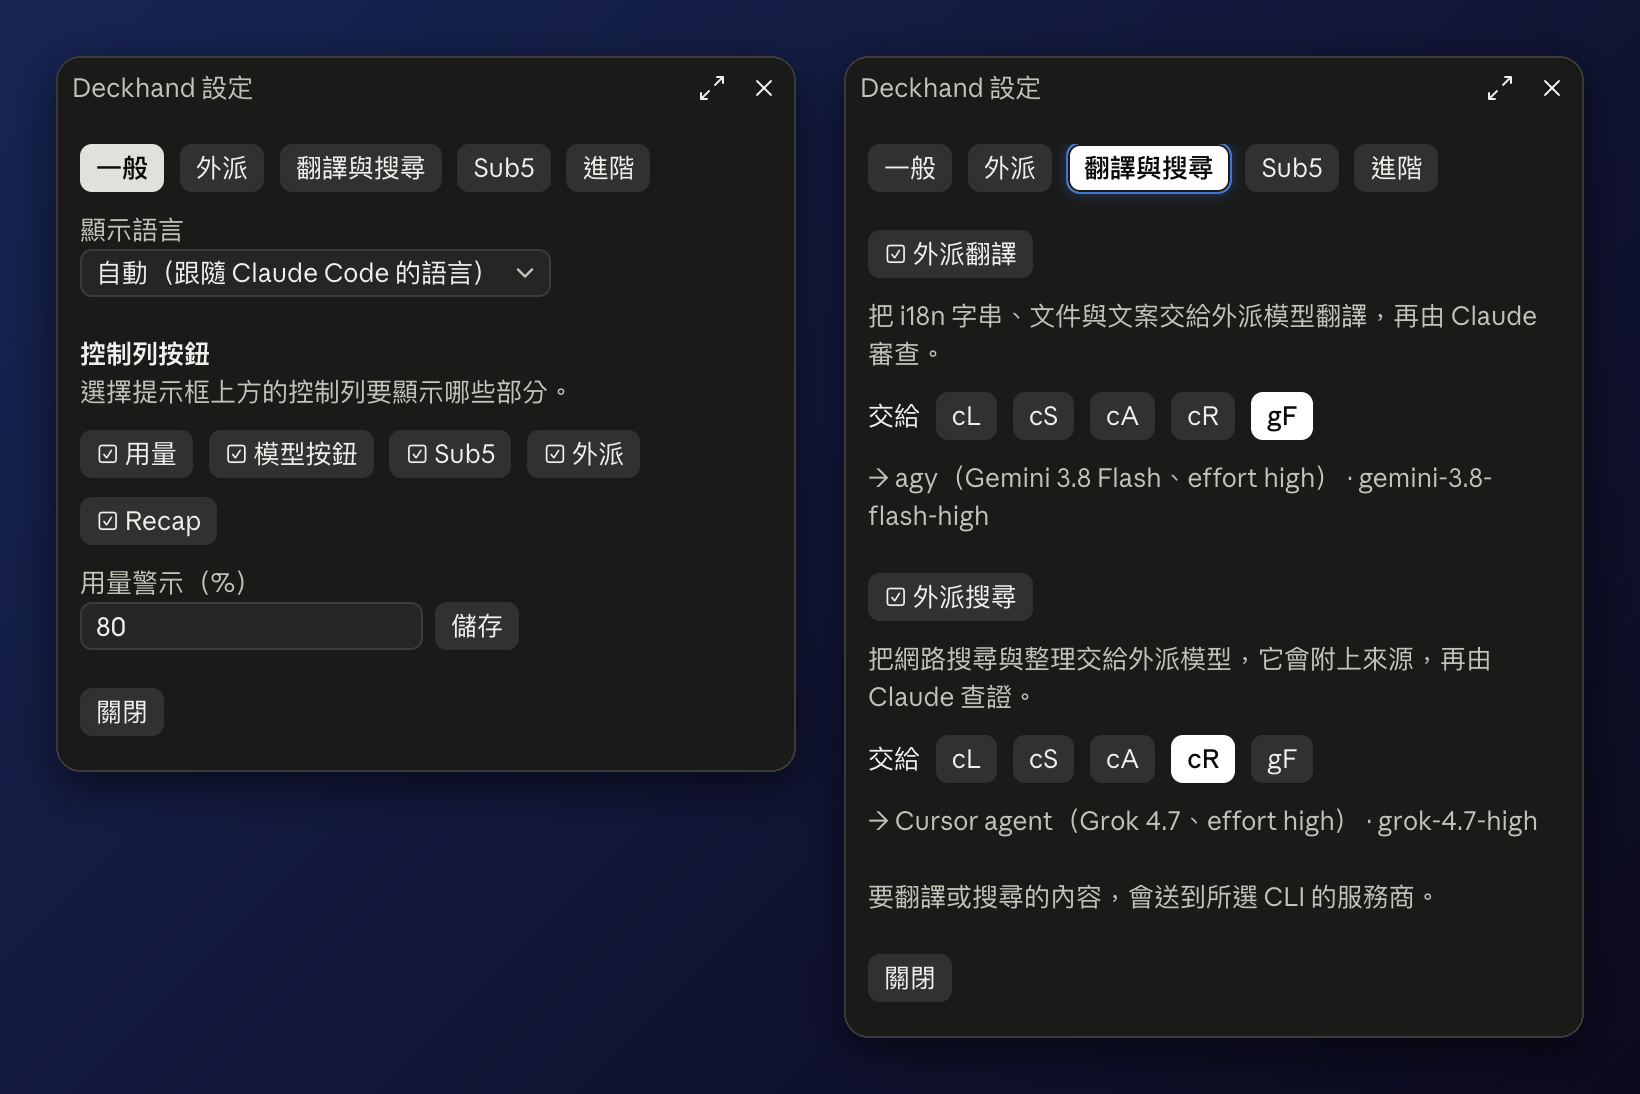
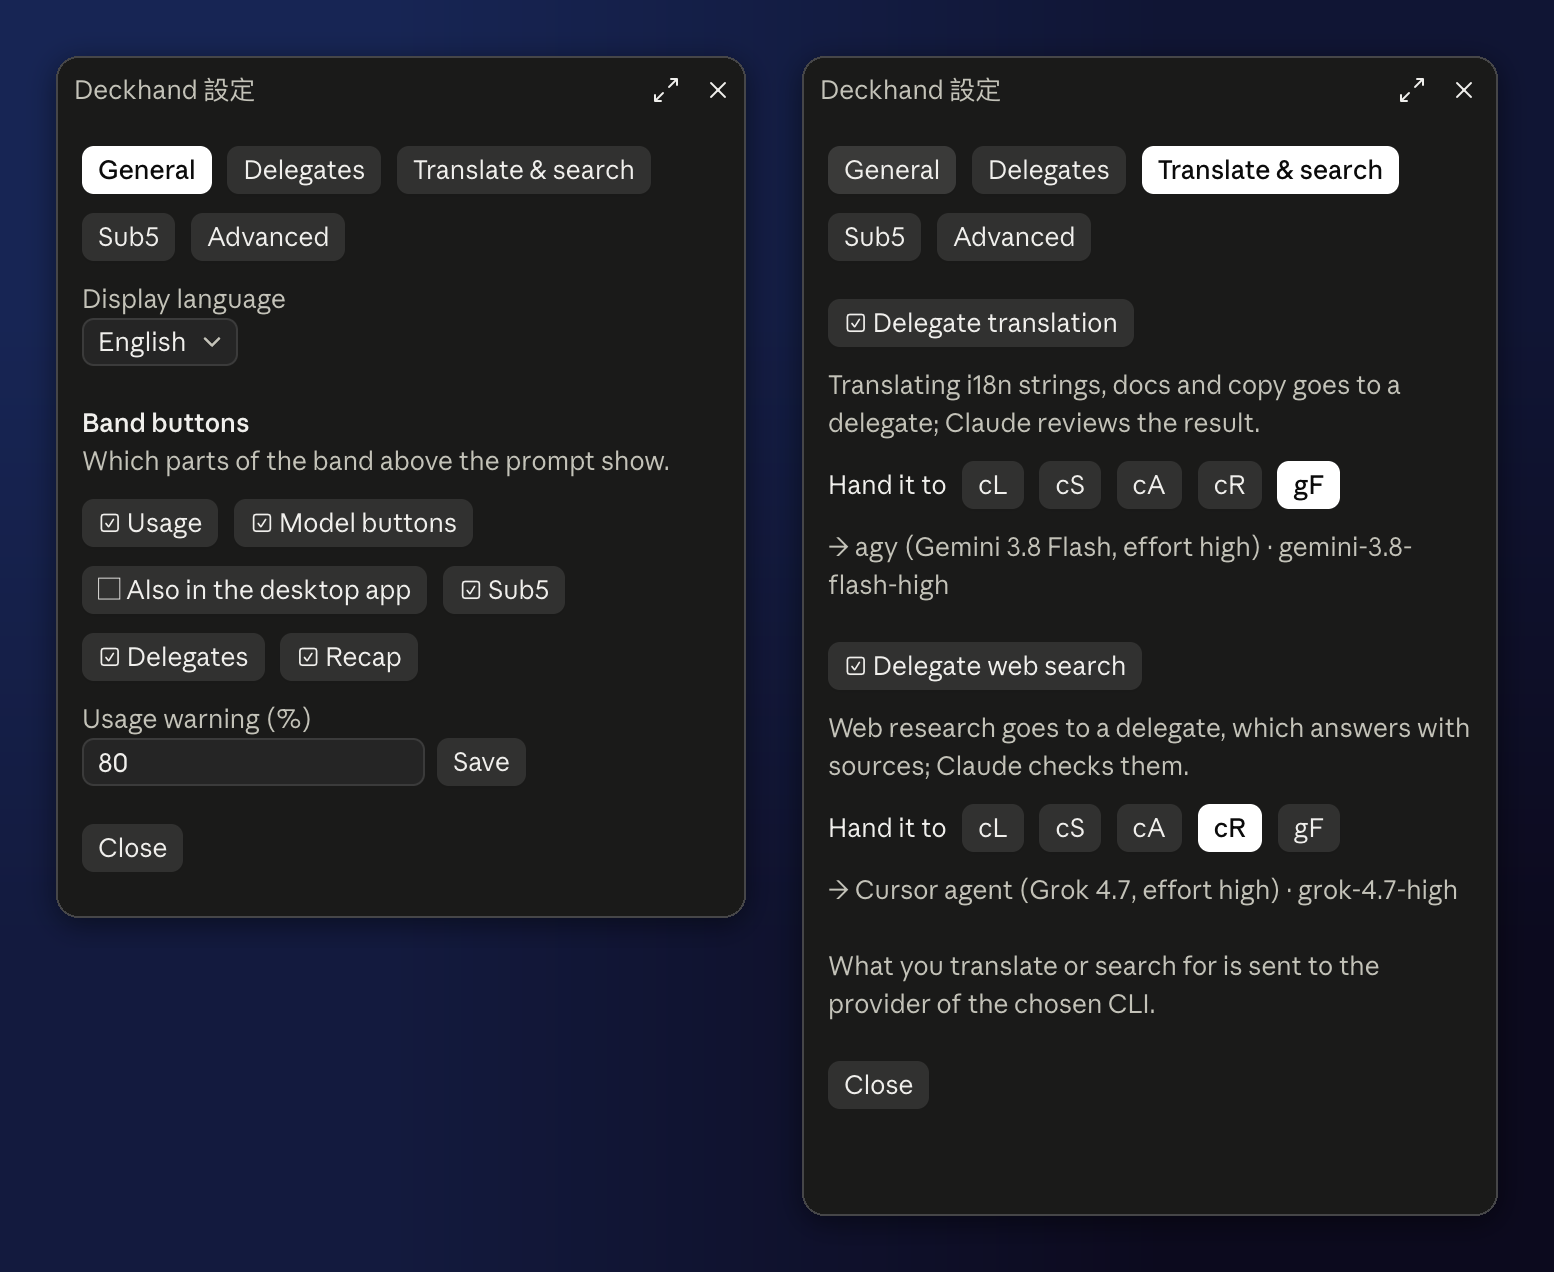
README: current screenshots, settings in English and Traditional Chinese
The band image shows the desktop band (no model buttons by default since
1.2.0) above the terminal band. The settings image is English in the
English, Japanese and Korean READMEs and Traditional Chinese in the
Chinese ones.

diff --git a/README.ja.md b/README.ja.md
@@ -18,7 +18,7 @@
 
 [インストール](#インストール) · [ツールバーの構成](#ツールバーの構成) · [委任ボタン](#委任ボタン) · [設定](#設定) · [その他のツール](#その他のツール) · [プライバシーとセキュリティ](#プライバシーとセキュリティ) · [スポンサー](#スポンサー) · [変更履歴](CHANGELOG.md)
 
-![Claude Code のプロンプト上部に表示される Deckhand のバー：完了した 2 件の CI 監視と通知、使用量、モデルボタン、Sub5、委任ボタン、Recap、設定](docs/images/band.png)
+![Claude Code のプロンプト上部に表示される Deckhand のバー：デスクトップアプリ版（使用量、Sub5、委任ボタン、Recap、設定）と、モデルボタン O F S H も表示されるターミナル版](docs/images/band.png)
 
 <sub>スクリーンショットは繁体字中国語の表示です。</sub>
 

diff --git a/README.md b/README.md
@@ -18,7 +18,7 @@ Usage gauges, one-click model switching, parallel sub agents and read-only secon
 
 [Install](#install) · [The band](#the-band) · [Delegate buttons](#delegate-buttons) · [Settings](#settings) · [More tools](#more-tools) · [Privacy and safety](#privacy-and-safety) · [Sponsor](#sponsor) · [Changelog](CHANGELOG.md)
 
-![The Deckhand band above the Claude Code prompt: two finished CI watches and their toast, usage gauges, model buttons, Sub5, delegate buttons, Recap and settings](docs/images/band.png)
+![The Deckhand band above the Claude Code prompt: in the desktop app (usage, Sub5, delegate buttons, Recap and settings) and in the terminal, where the model buttons O F S H also show](docs/images/band.png)
 
 <sub>Screenshots show the Traditional Chinese display language.</sub>
 

diff --git a/README.ko.md b/README.ko.md
@@ -18,7 +18,7 @@
 
 [설치](#설치) · [툴바 구성](#툴바-구성) · [위임 버튼](#위임-버튼) · [설정](#설정) · [추가 도구](#추가-도구) · [개인정보 보호 및 보안](#개인정보-보호-및-보안) · [후원](#후원) · [변경 내역](CHANGELOG.md)
 
-![Claude Code 프롬프트 위의 Deckhand 바: 완료된 CI 모니터링 2건과 알림, 사용량, 모델 버튼, Sub5, 위임 버튼, Recap, 설정](docs/images/band.png)
+![Claude Code 프롬프트 위의 Deckhand 바: 데스크톱 앱(사용량, Sub5, 위임 버튼, Recap, 설정)과 모델 버튼 O F S H도 표시되는 터미널](docs/images/band.png)
 
 <sub>스크린샷은 번체 중국어 표시 언어입니다.</sub>
 
